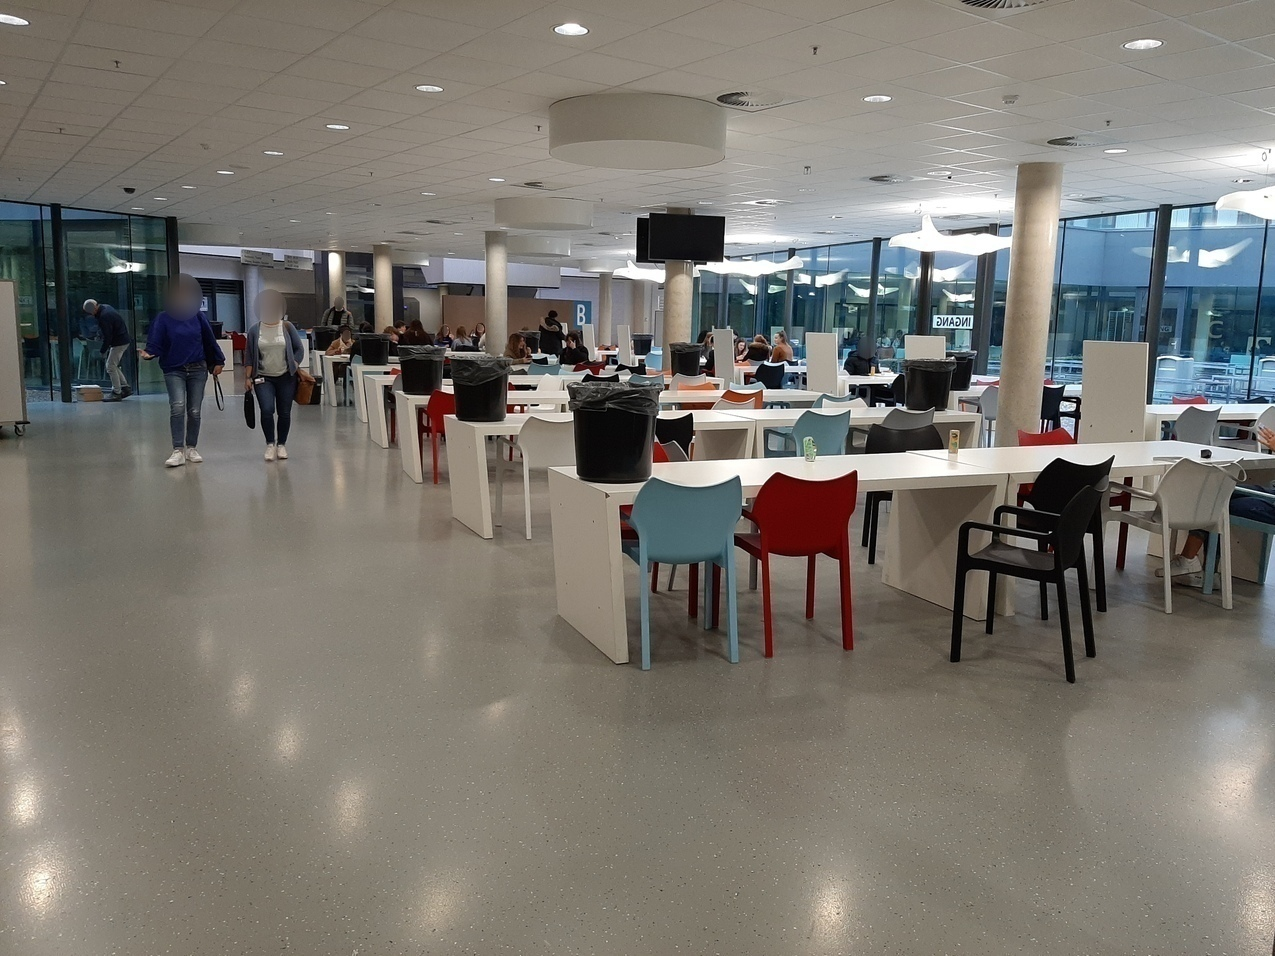
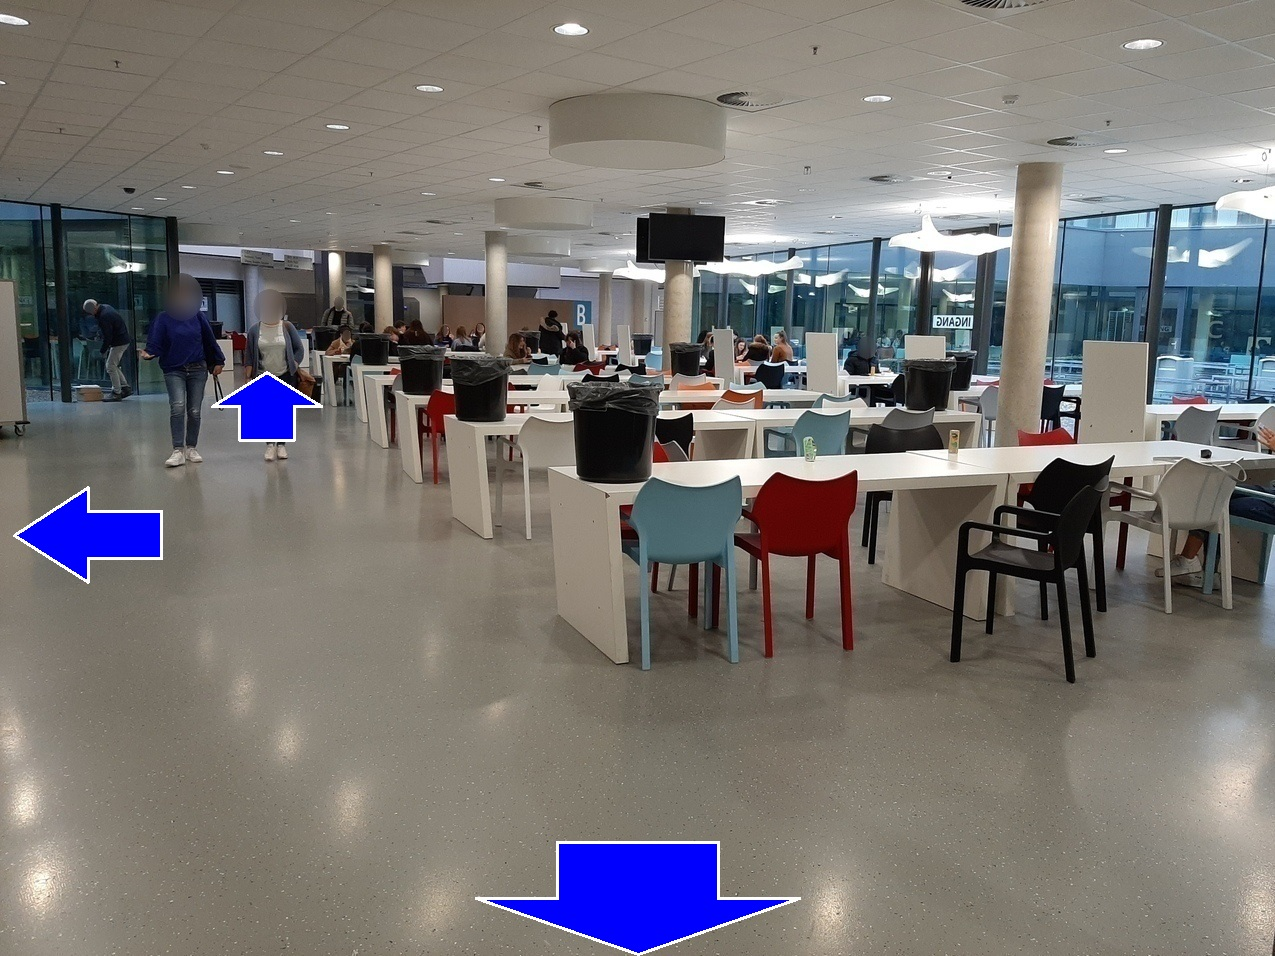
update Escape Vista

Changed region(s): [[0.3671, 0.8797, 0.6118, 1.0], [0.0, 0.5157, 0.1529, 0.6067], [0.1529, 0.3944, 0.2447, 0.4854]]

diff --git a/HTML/EscapeVista.html b/HTML/EscapeVista.html
@@ -9,8 +9,8 @@
             <!--Imagemap waarin de image gebruikt wordt-->
             <map name="ImageMap" id="ImageMap">
                 <!--Click areas in de imagemap waarop geklikt kunnen worden-->
-                <area shape="rect" coords="360,245,435,310" tabindex="1" style="cursor: pointer;" alt="Test" onclick="TravelPath('Hoofdingang')">
-                <area shape="rect" coords="285,510,480,575" tabindex="2" style="cursor: pointer;" alt="Test" onclick="TravelPath('Hoofdingang')">
+                <area shape="rect" coords="125,220,200,270" tabindex="1" style="cursor: pointer;" alt="Test" onclick="TravelPath('Hoofdingang')">
+                <area shape="rect" coords="285,505,480,575" tabindex="2" style="cursor: pointer;" alt="Test" onclick="TravelPath('Hoofdingang')">
                 <area shape="rect" coords="0,0,0,0" tabindex="3" style="cursor: pointer;" alt="Test" onclick="TravelPath(null)">
                 <area shape="rect" coords="0,0,0,0" tabindex="4" style="cursor: pointer;" alt="Test" onclick="TravelPath(null)">
             </map>

diff --git a/JS/EscapeVistaImageInfo.JS b/JS/EscapeVistaImageInfo.JS
@@ -85,7 +85,7 @@ var ImageDataList = [
         Coordinates2: "300,525,475,575",
         Coordinates3: "225,250,270,315",
         Coordinates4: "680,355,755,435",
-        Destination1: null,
+        Destination1: "Kantine",
         Destination2: "FietsenStalling",
         Destination3: "Toilet",
         Destination4: "Gang van Receptie naar Fietsenstalling",
@@ -115,6 +115,18 @@ var ImageDataList = [
         Destination4: null,
         Task: null,
     },
+    {
+        ImageID: "Kantine",
+        Coordinates1: "125,220,200,270",
+        Coordinates2: "285,505,480,575",
+        Coordinates3: null,
+        Coordinates4: null,
+        Destination1: null,
+        Destination2: "Gang met Toiletten",
+        Destination3: null,
+        Destination4: null,
+        Task: null,
+    }
 ]
 
 //Tasklist uitleg

diff --git a/JS/EscapeVista.js b/JS/EscapeVista.js
@@ -38,5 +38,5 @@ function TravelPath(Destination){
     });
 }
 
-ImageMap.areas[1].focus();
+ImageMap.areas[0].focus();
 
